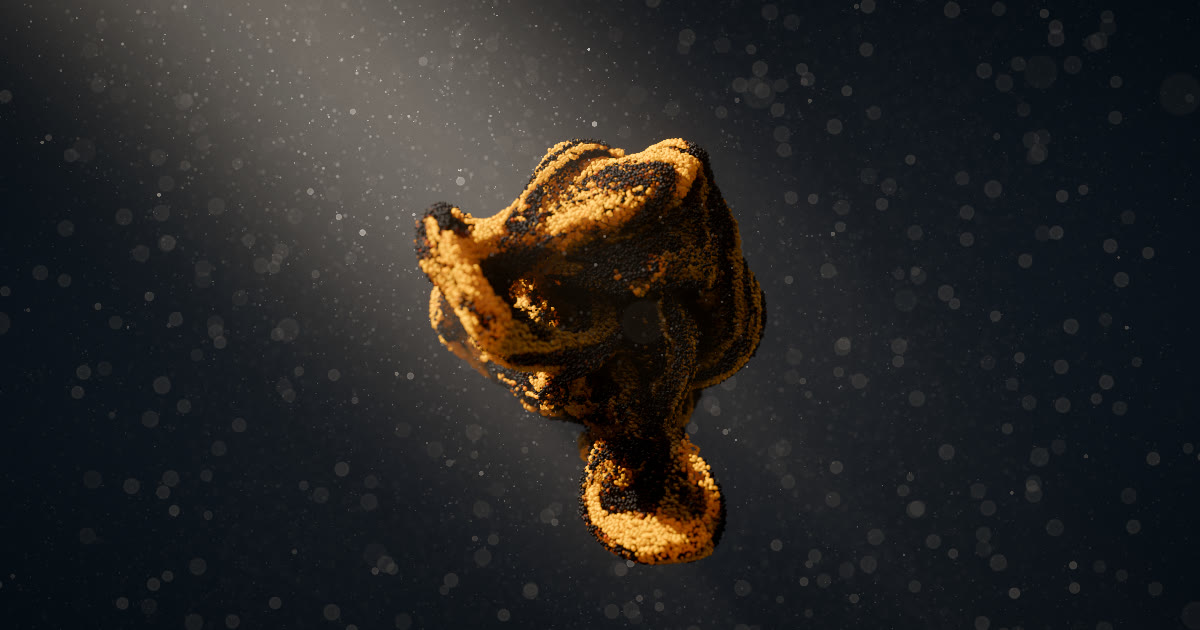
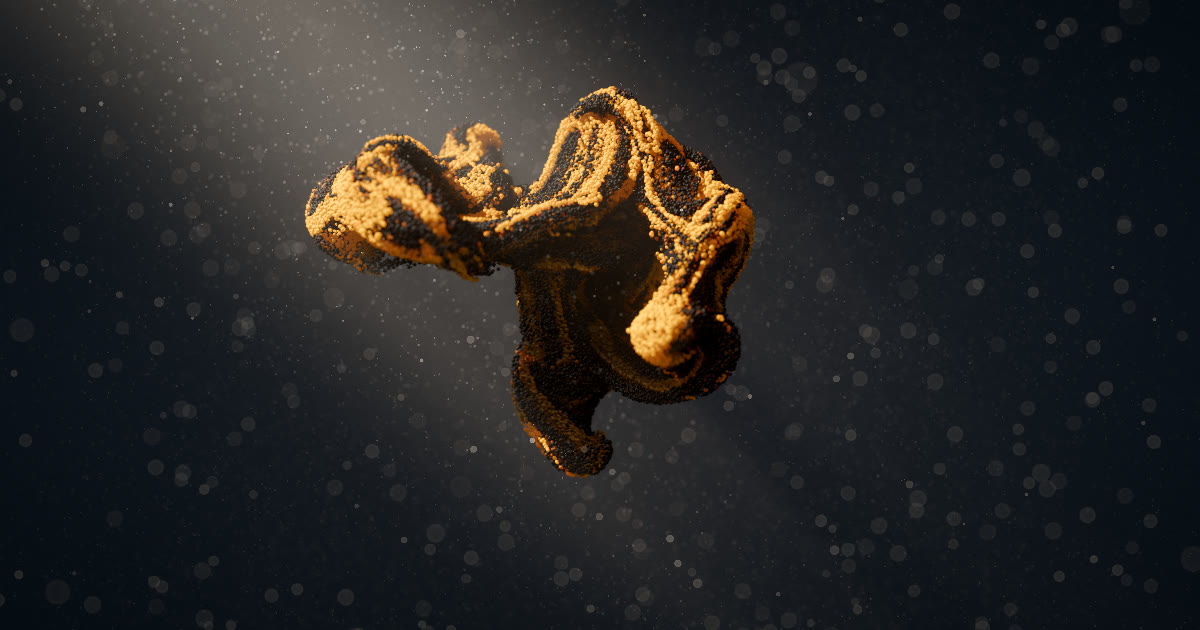
Day 16: panel grouped by what each setting does; screenshots of a tamer colony with arms
Sections: Look, Colony, Motion, Body, Life, Touch, Light & air, Camera, Auto change. The randomized controls keep their
order, so every seed gives the same colony.

diff --git a/16/main.js b/16/main.js
@@ -143,9 +143,9 @@ const studio = load.studio.track(
 );
 
 const gui = new GUI(setDay(), document.querySelector("#gui-container"), { expanded: false });
-gui.addSection("Colony");
-gui.addSlider("Spores", params.spores, 10000, MAX_SPORES, 1000, { randomizable: false });
-gui.addSlider("Size", params.size, 0.5, 2, 0.01, { randomizable: false });
+// The panel, by what each setting does. The randomized controls keep their order (seeds replay them in turn).
+// Look: the colony's colours and its grains.
+gui.addSection("Look");
 gui.addSelect("Palette", params.palette, Object.keys(PALETTES)).randomize = () => {
   const weights = { pollen: 4, saffron: 2, rust: 2, lichen: 1.5, coral: 1.5, frost: 1, ultraviolet: 1, verdigris: 1 };
   delete weights[params.palette()];
@@ -153,25 +153,17 @@ gui.addSelect("Palette", params.palette, Object.keys(PALETTES)).randomize = () =
   for (const [k, w] of Object.entries(weights)) if ((r -= w) < 0) return params.palette.set(k);
 };
 gui.addSlider("Crust", params.crust, 0, 1, 0.01).randomize = () => params.crust.set(round(0.4 + 0.3 * Math.random()));
-// A warm halo behind the colony.
 gui.addSlider("Translucency", params.translucency, 0, 1, 0.01, { randomizable: false });
 gui.addSlider("Detail", params.detail, 0, 1, 0.01, { randomizable: false });
-gui.addSlider("Halo", params.halo, 0, 3, 0.01, { randomizable: false });
 // Studio: the colony in colour under a warm key. Microscope: an electron micrograph (grey, edge-lit, ornamented spores,
-// shallow focus, a scale bar).
-// The studio/microscope look is hidden for now (params.look stays studio).
+// shallow focus, a scale bar). Hidden for now (params.look stays studio).
 // gui.addSegmented("Look", params.look, ["studio", "microscope"], { randomizable: false });
-// Air and light: a beam of the key light through the haze (the colony casts shafts in it), and dust hanging in the air.
-gui.addSlider("Beam", params.beam, 0, 3, 0.01, { randomizable: false });
-gui.addSlider("Haze", params.haze, 0, 2, 0.01, { randomizable: false });
-gui.addSlider("Dust", params.dust, 0, 3, 0.01, { randomizable: false });
-gui.addSection("Physics");
-// How fast the current changes, and how hard it stirs.
-// Colonies: one, or two or three that drift apart, meet, merge and split again.
-// Wildness sets the colony's physics in one go: calm (a slow, rounded blob that barely pulses) through the usual
-// colony to wild (a strong, coarse current against weak cohesion and pressure, held by tough bonds, so the mass
+
+// Colony: what it is. Wildness sets its physics in one go: calm (a slow, rounded blob that barely pulses) through the
+// usual colony to wild (a strong, coarse current against weak cohesion and pressure, held by tough bonds, so the mass
 // stretches out into arms, pulsing, budding and bursting more). Randomizing alternates a calmer and a wilder colony;
 // on each side, most land near the middle and few at the extremes.
+gui.addSection("Colony");
 const WILD = {
   calm: { turbulence: 0.6, scale: 1.3, cohesion: 1.4, pressure: 1.2, bonds: 1, tear: 0.6, flow: 0.45, breathe: 0.2, sporulation: 0.4, budding: 0.4 },
   usual: { turbulence: 1.3, scale: 0.95, cohesion: 0.9, pressure: 0.9, bonds: 1.2, tear: 0.4, flow: 0.75, breathe: 0.45, sporulation: 1, budding: 1 },
@@ -192,46 +184,67 @@ function randomWildness() {
   return round(wildSide ? 0.5 + d : 0.5 - d);
 }
 gui.addSlider("Wildness", params.wildness, 0, 1, 0.01, { onChange: (v) => applyWildness(v, false) }).randomize = () => params.wildness.set(randomWildness());
-// Several colonies always go back to one before the next split, so a change never goes from two straight to three.
+// One, or two or three that drift apart, meet, merge and split again; several always go back to one before the next
+// split, so a change never goes from two straight to three.
 gui.addSlider("Colonies", params.colonies, 1, 3, 1).randomize = () => params.colonies.set(params.colonies() > 1 ? 1 : Math.random() < 0.45 ? 1 : Math.random() < 0.6 ? 2 : 3);
 // How much spores drift toward their own colour: 0 lets the stirring mix them freely, higher gathers the colours into
 // patches and streams (never fully apart).
 gui.addSlider("Sorting", params.sorting, 0, 2, 0.01).randomize = () => params.sorting.set(round(0.3 + 0.7 * Math.random()));
-// How fast the whole simulation runs (everything: motion, current, breathing, buds, bursts).
+gui.addSlider("Spores", params.spores, 10000, MAX_SPORES, 1000, { randomizable: false });
+gui.addSlider("Size", params.size, 0.5, 2, 0.01, { randomizable: false });
+
+// Motion: the clocks, and the current that folds the mass.
+gui.addSection("Motion");
+// How fast the physics runs, and so anything done to the colony.
 gui.addSlider("Speed", params.speed, 0.1, 2, 0.01, { randomizable: false });
-// The colony's own life (current, pulses, buds, bursts, colonies circling) runs at Pace; the physics, and so anything
-// done to it, at Speed.
+// How fast the colony's own life runs (current, pulses, buds, bursts, colonies circling).
 gui.addSlider("Pace", params.pace, 0.05, 1, 0.01, { randomizable: false });
+// How fast the current changes, how hard it stirs, and how big its swirls are.
 gui.addSlider("Flow", params.flow, 0, 2, 0.01, { randomizable: false });
 gui.addSlider("Turbulence", params.turbulence, 0, 3, 0.01).randomize = () => params.turbulence.set(round(0.7 + 0.8 * Math.random()));
 gui.addSlider("Scale", params.scale, 0.4, 2.5, 0.01).randomize = () => params.scale.set(round(0.8 + 0.6 * Math.random()));
-// What holds the mass together (goo), the bead clumps (bonds), what stops it packing (pressure), and how thick the
+
+// Body: what holds the mass together (goo), the bead clumps (bonds) and how easily they tear (their bonds snap when
+// stretched, and grow back when the pieces meet again), what stops it packing (pressure, collisions), and how thick the
 // medium it floats in is (drag).
+gui.addSection("Body");
 gui.addSlider("Cohesion", params.cohesion, 0, 3, 0.01).randomize = () => params.cohesion.set(round(0.7 + 0.6 * Math.random()));
 gui.addSlider("Bonds", params.bonds, 0, 3, 0.01).randomize = () => params.bonds.set(round(0.6 + 0.8 * Math.random()));
-gui.addSlider("Pressure", params.pressure, 0.2, 3, 0.01, { randomizable: false });
-gui.addSlider("Drag", params.drag, 0.1, 3, 0.01, { randomizable: false });
-gui.addSlider("Disrupt", params.disrupt, 0, 3, 0.01, { randomizable: false });
-// How easily clumps tear apart (their bonds snap when stretched, and grow back when the pieces meet again).
 gui.addSlider("Tear", params.tear, 0, 1, 0.01).randomize = () => params.tear.set(round(0.3 + 0.5 * Math.random()));
-// How hard a click blows a puff of spores out.
-gui.addSlider("Puff", params.puff, 0, 3, 0.01, { randomizable: false });
-// Engorgement: how strongly (and a little how often) the colony swells in sudden, irregular pulses.
-gui.addSlider("Pulse", params.breathe, 0, 1, 0.01).randomize = () => params.breathe.set(round(0.2 + 0.6 * Math.random()));
-// Spores pushing each other apart where they would overlap.
+gui.addSlider("Pressure", params.pressure, 0.2, 3, 0.01, { randomizable: false });
 gui.addSlider("Collisions", params.collisions, 0, 3, 0.01, { randomizable: false });
-// How often a patch of ripe crust bursts in a puff of spores (they grow back beside clump-mates).
+gui.addSlider("Drag", params.drag, 0.1, 3, 0.01, { randomizable: false });
+
+// Life: how strongly the colony swells in sudden, irregular pulses; how often a patch of ripe crust bursts in a puff of
+// spores (they grow back beside clump-mates); how often it buds (a lobe swells, pinches off, floats away and comes back).
+gui.addSection("Life");
+gui.addSlider("Pulse", params.breathe, 0, 1, 0.01).randomize = () => params.breathe.set(round(0.2 + 0.6 * Math.random()));
 gui.addSlider("Sporulation", params.sporulation, 0, 4, 0.01).randomize = () => params.sporulation.set(round(0.5 + 1.5 * Math.random()));
-// How often the colony buds: a lobe swells, pinches off, floats away and comes back.
 gui.addSlider("Budding", params.budding, 0, 3, 0.01).randomize = () => params.budding.set(round(0.5 + 1.5 * Math.random()));
-gui.addSection("View");
-// Motion blur, off by default: the shutter as a fraction of the frame (0.5 is a film camera's 180 degrees).
+
+// Touch: how hard hovering stirs the spores, and how hard a click blows a puff of them out.
+gui.addSection("Touch");
+gui.addSlider("Disrupt", params.disrupt, 0, 3, 0.01, { randomizable: false });
+gui.addSlider("Puff", params.puff, 0, 3, 0.01, { randomizable: false });
+
+// Light & air: a warm halo behind the colony, a beam of the key light through the haze (the colony casts shafts in it),
+// and dust hanging in the air.
+gui.addSection("Light & air");
+gui.addSlider("Halo", params.halo, 0, 3, 0.01, { randomizable: false });
+gui.addSlider("Beam", params.beam, 0, 3, 0.01, { randomizable: false });
+gui.addSlider("Haze", params.haze, 0, 2, 0.01, { randomizable: false });
+gui.addSlider("Dust", params.dust, 0, 3, 0.01, { randomizable: false });
+
+// Camera: depth of field and where it focuses, how fast the idle camera orbits, reframes and pulls focus, motion blur
+// (the shutter as a fraction of the frame; 0.5 is a film camera's 180 degrees), and the colony's spin.
+gui.addSection("Camera");
 gui.addSlider("Depth of field", params.focusBlur, 0, 1, 0.01, { randomizable: false });
 gui.addSlider("Focus", params.focus, -1, 1, 0.01, { randomizable: false });
-// How fast the idle camera orbits, reframes and pulls focus.
 gui.addSlider("Camera speed", params.cameraSpeed, 0.2, 3, 0.01, { randomizable: false });
 gui.addSlider("Motion blur", params.blur, 0, 1, 0.01, { randomizable: false });
 gui.addSlider("Spin", params.spin, 0, 1, 0.01, { randomizable: false });
+
+gui.addSection("Auto change");
 // Auto change counts toward the next colony only once the last change has mostly settled.
 const autoChange = createAutoChange({ enabled: params.auto, every: params.autoTime, gui, ready: () => changeSettled() });
 function changeSettled() {
